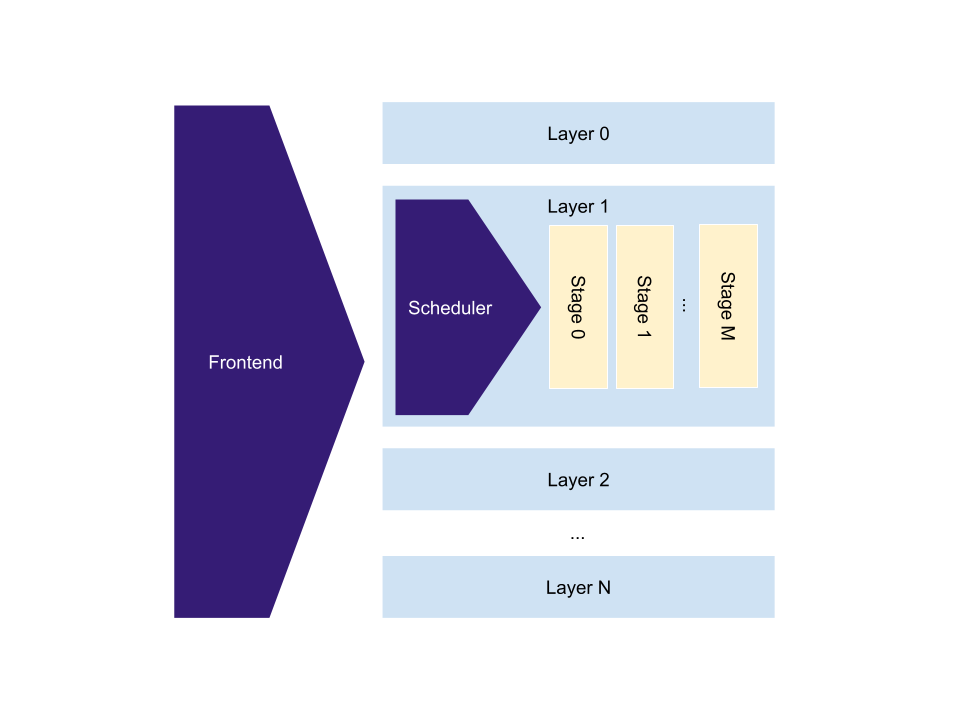
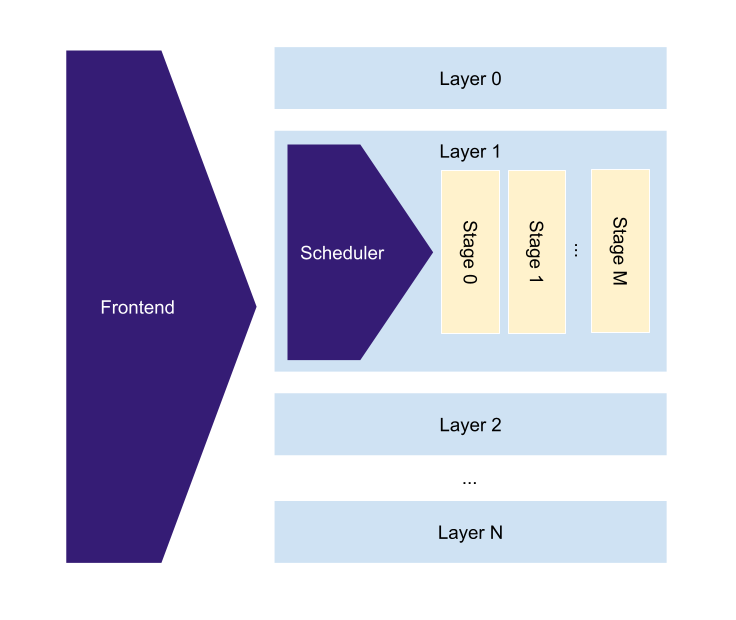
Fix image cropping and title

diff --git a/content/en/docs/Reference/compiler.md b/content/en/docs/Reference/compiler.md
@@ -1,19 +1,13 @@
 ---
-title: "Compiler architecture"
-linkTitle: "Compiler architecture"
+title: "Compiler structure"
+linkTitle: "Compiler structure"
 date: 2022-03-16
 description: >
   Description of compiler concepts, components and their interaction
 ---
 
+## Block diagram
 ![architecture](/images/compiler/architecture.png)
-
-- [Frontend](#frontend)
-- [Memory Manager](#memory_manager)
-- [HIR](#hir)
-- [Scheduler](#scheduler)
-- [LIR](#lir)
-- [Backend](#backend)
 
 ## Frontend
 
@@ -33,7 +27,7 @@ High-level intermediate representation (HIR) is an interface offered by the sche
 
 Following are a few examples of HIR.
 
-```
+```scala
 def emitMatMul(
       weightsObjs: Seq[MemoryObject],
       biasObj: Option[MemoryObject],
@@ -43,7 +37,7 @@ def emitMatMul(
 
 The `emitMatMul` function takes weights and the bias memory objects, and a sequence of input-output object pairs. It performs matrix multiplication for each input memory object and places results in the output memory object. Input is optional, in which case it is assumed to be all zeroes. Weights and the bias must be Consts objects. Input must be Vars object, and output must be Temp object.
 
-```
+```scala
 def emitRelu(
       inputObj: MemoryObject,
       outputObj: MemoryObject
@@ -52,7 +46,7 @@ def emitRelu(
 
 The `emitRelu` function performs ReLU activation on the input object and places the result in the output object. Both input and output must be Temp objects.
 
-```
+```scala
 def emitSave(
       inputObj: MemoryObject,
       outputObj: MemoryObject
@@ -73,7 +67,7 @@ Low-level intermediate representation (LIR) is an interface offered by the backe
 
 Following are a few examples of LIR. Each produces the corresponding processing unit instruction. Note that LIR is not using instruction flags directly. The backend role is to infer these flags based on LIR arguments, such as accumulate and `toLocal` booleans and memory address tags.
 
-```
+```scala
 def emitMatMul(
       accumulate: Boolean,
       localStride: Int,
